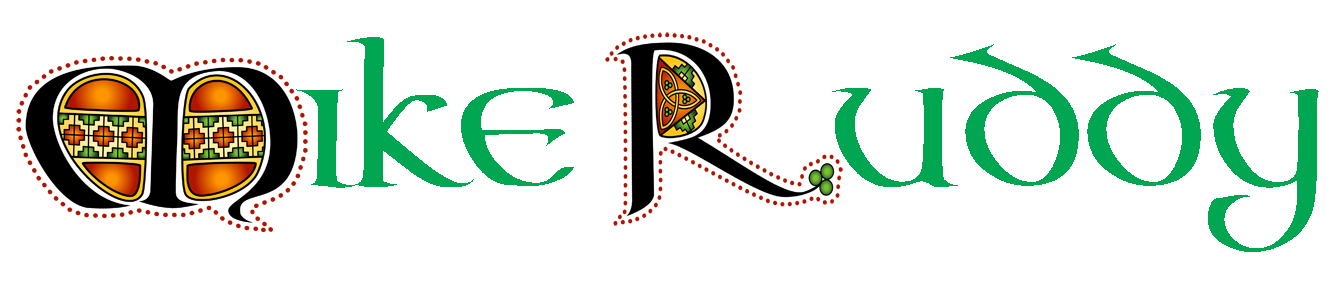
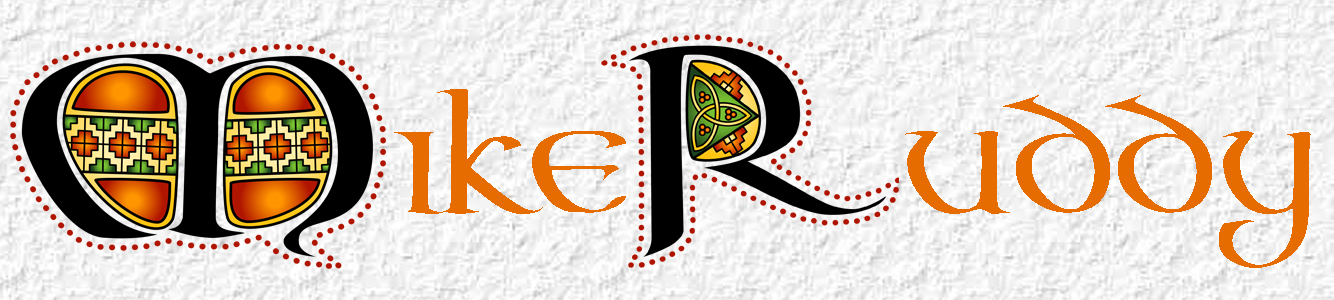
put greytext.gif background to mike ruddy website

diff --git a/TitleTest.html b/TitleTest.html
@@ -1,0 +1,10 @@
+<!doctype html>
+<html>
+<head>
+<meta charset="utf-8">
+<title>Untitled Document</title>
+</head>
+<body background="graytext.gif">
+<body>
+</body>
+</html>

diff --git a/Untitled-1.html b/Untitled-1.html
@@ -1,0 +1,10 @@
+<!doctype html>
+<html>
+<head>
+<meta charset="utf-8">
+<title>Untitled Document</title>
+</head>
+<body background="graytext.gif">
+<body>
+</body>
+</html>
